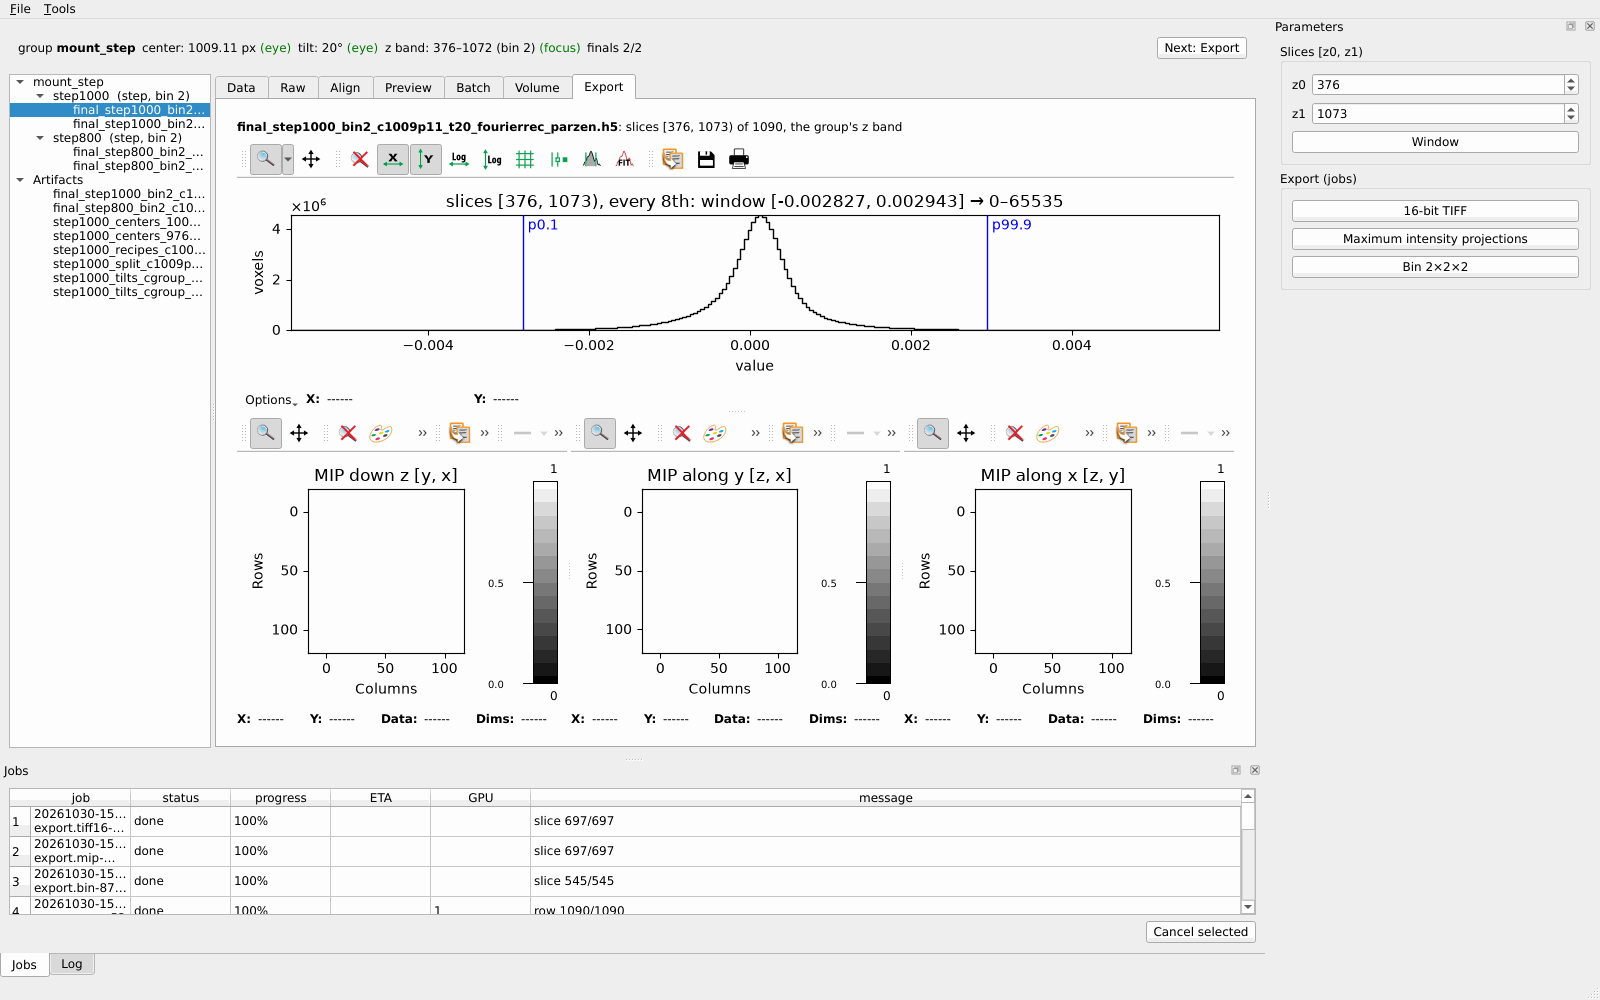
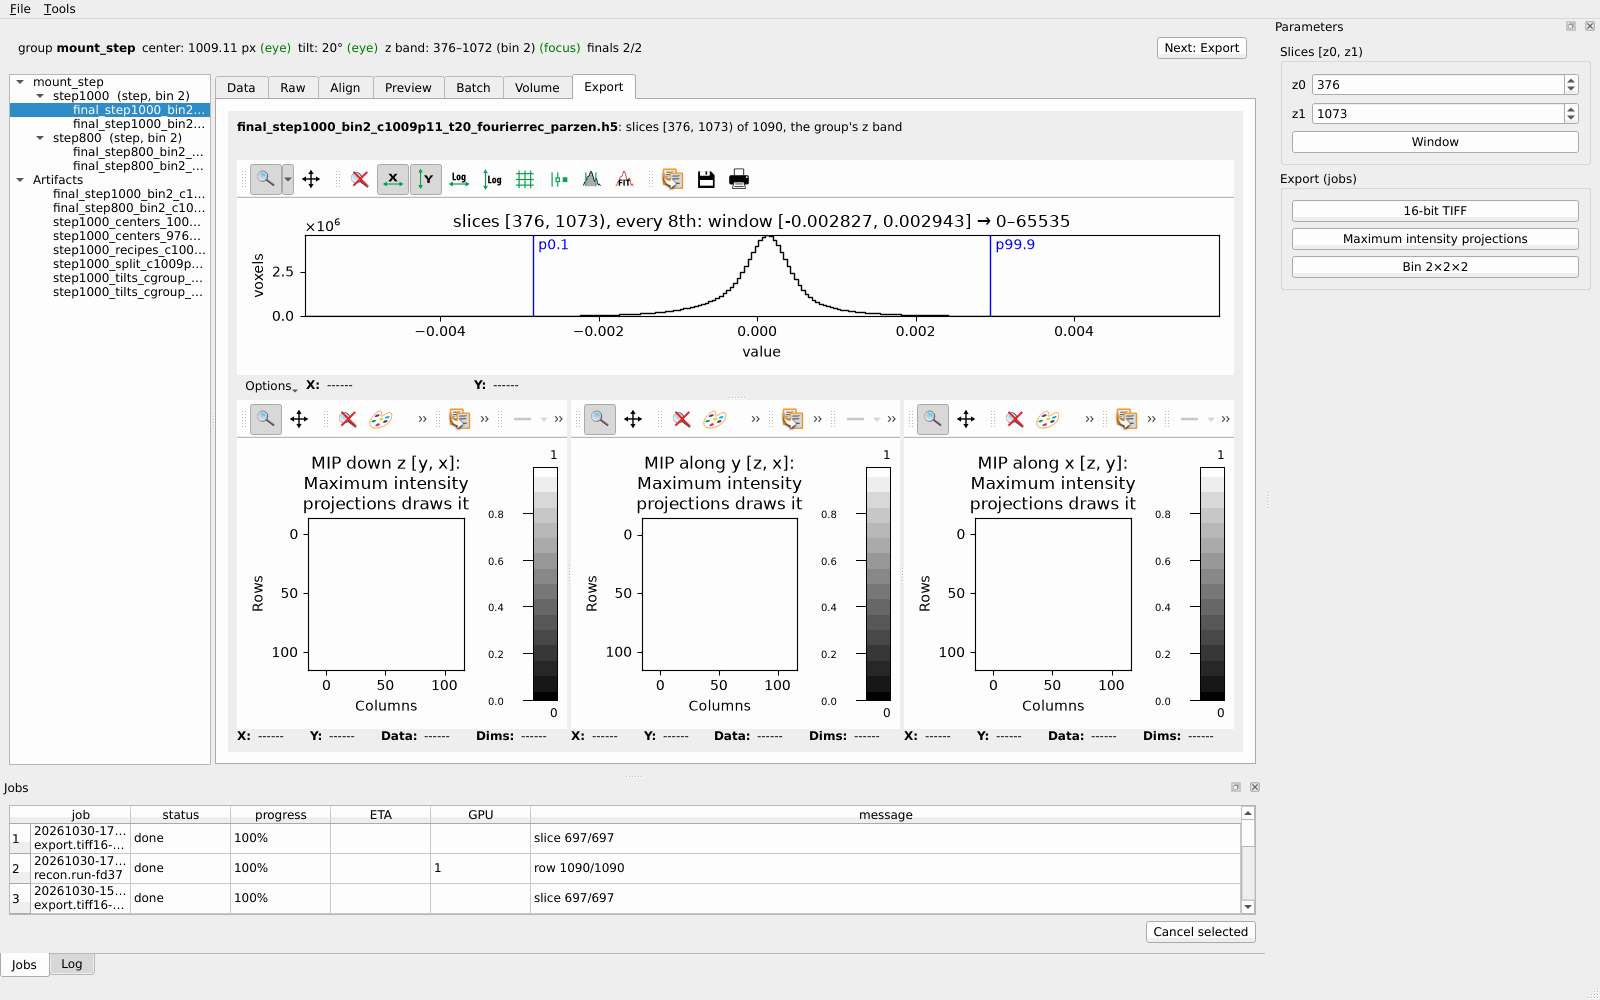
docs(manual): describe the mode buttons, graph hints and scrolling tabs
The Volume and Export captures, 23 to 30, are retaken: they showed the
cross overlay's controls, untitled empty graphs, no Zoom/Pan buttons and
Export scrolling. The other captures still lack the two mode buttons.

diff --git a/docs/manual/README.md b/docs/manual/README.md
@@ -34,12 +34,21 @@ lamino-pal-gui --project ~/work/lamino_pal_demo/project.toml
   **layer list**(레이어 목록, 눈 아이콘으로 표시/숨김, 맨 아래 줄 오른쪽 집
   아이콘이 Reset view)가 붙는다. 이 오른쪽 열은 창 높이 전체를 쓰고, 각 칸은
   내용만큼 높이를 받으며 남는 높이는 layer list가 갖는다. 창이 낮아 모자라면
-  칸 안에서 스크롤된다.
-- **이미지 viewer의 마우스**는 silx 그래프와 같다. 2D에서는 왼쪽으로 끌어 그린
-  사각형으로 확대하고, 오른쪽 클릭 메뉴의 **Zoom Back**으로 그 전 화면(더
-  없으면 전체 맞춤)으로 돌아간다. 가운데 버튼으로 끌면 옮기고, 휠은 커서를
-  중심으로 확대·축소한다. 사각형을 그리는 레이어(ROI)가 선택돼 있으면 왼쪽
-  끌기는 그 레이어가 쓴다. 3D는 6절 5번에 있다.
+  칸 안에서 스크롤된다. 창을 탭 내용보다 작게 줄이면 탭도 스크롤된다.
+- **layer controls**는 영상 레이어의 것이 기본이다. 윤곽선·십자·몽타주 테두리
+  같은 덧그림 레이어가 생겨도 선택은 영상에 남는다. ROI처럼 직접 그리는
+  레이어는 그것을 만든 버튼이 골라 준다.
+- **그래프**: 결과가 없는 그래프는 제목에 그것을 채우는 버튼을 적는다(예:
+  `Focus by z draws each slice's focus here`). 실패 메시지는 제목에 줄바꿈되어
+  다 나오고, 그만큼 그래프가 높아진다.
+- **이미지 viewer의 마우스**는 silx 그래프와 같다. layer list 아래 버튼 줄 맨
+  왼쪽의 두 버튼이 silx 툴바의 Zoom 모드와 Pan 모드다. Zoom 모드(2D 기본)에서는
+  왼쪽으로 끌어 그린 사각형으로 확대하고, 오른쪽 클릭 메뉴의 **Zoom Back**으로
+  그 전 화면(더 없으면 전체 맞춤)으로 돌아간다. 영상이 바뀌면(새 결과, 다른
+  volume) Zoom Back 기록은 지워진다. Pan 모드에서는 왼쪽으로 끌어 옮긴다. 두
+  모드 모두 가운데 버튼으로 끌면 옮기고, 휠은 커서를 중심으로 확대·축소한다.
+  사각형을 그리는 레이어(ROI)가 선택돼 있으면 왼쪽 끌기는 그 레이어가 쓴다.
+  3D는 6절 5번에 있다.
 - **아래 Jobs / Log**: 탭 아래에 있다. GPU 작업의 진행률·남은 시간·GPU·메시지.
   작업을 고르고 **Cancel selected**로 취소한다. Log 탭은 실행한 op의 기록이다.
 
@@ -224,12 +233,13 @@ Compare/Split 결과(표, 변형 레이어)는 위 입력을 바꾸거나 **Prev
    (volume/plane)을 고른다. contrast는 rendering이 z 방향으로 그리는 상(mip은
    최댓값 투영)의 0.5–99.5% 구간이고, rendering을 바꾸면 다시 정해진다.
    3D 페이지에서는 layer controls/list가 3D 레이어의
-   것으로 바뀌고, Slices로 돌아가면 다시 z slice의 것(cross, fov)이 된다.
+   것으로 바뀌고, Slices로 돌아가면 다시 z slice의 것(controls는 영상의 것,
+   list는 영상과 덧그림 cross, fov)이 된다.
 
    ![3D](26-3d.png)
 
-5. 왼쪽으로 끌어서 돌리고, 가운데 버튼이나 Ctrl+왼쪽으로 끌어서 옮기고, 휠로
-   확대한다.
+5. 3D에서는 첫 버튼이 Rotate 모드가 된다. 왼쪽으로 끌어서 돌리고, Pan 모드나
+   가운데 버튼, Ctrl+왼쪽으로 끌어서 옮기고, 휠로 커서 아래 점을 향해 확대한다.
    **Save the view**는 지금 보이는 화면을 `artifacts/figures` 아래 PNG로 저장한다.
 
    ![3D 회전](27-3d-rotated.png)
